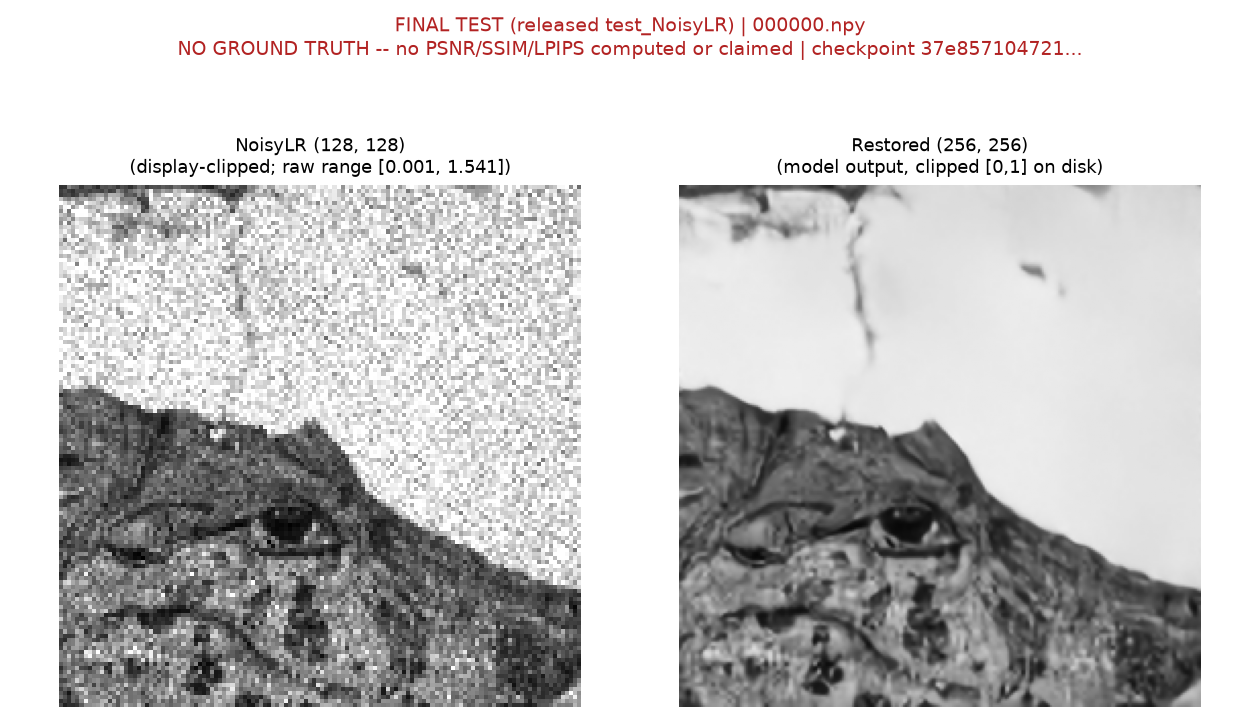
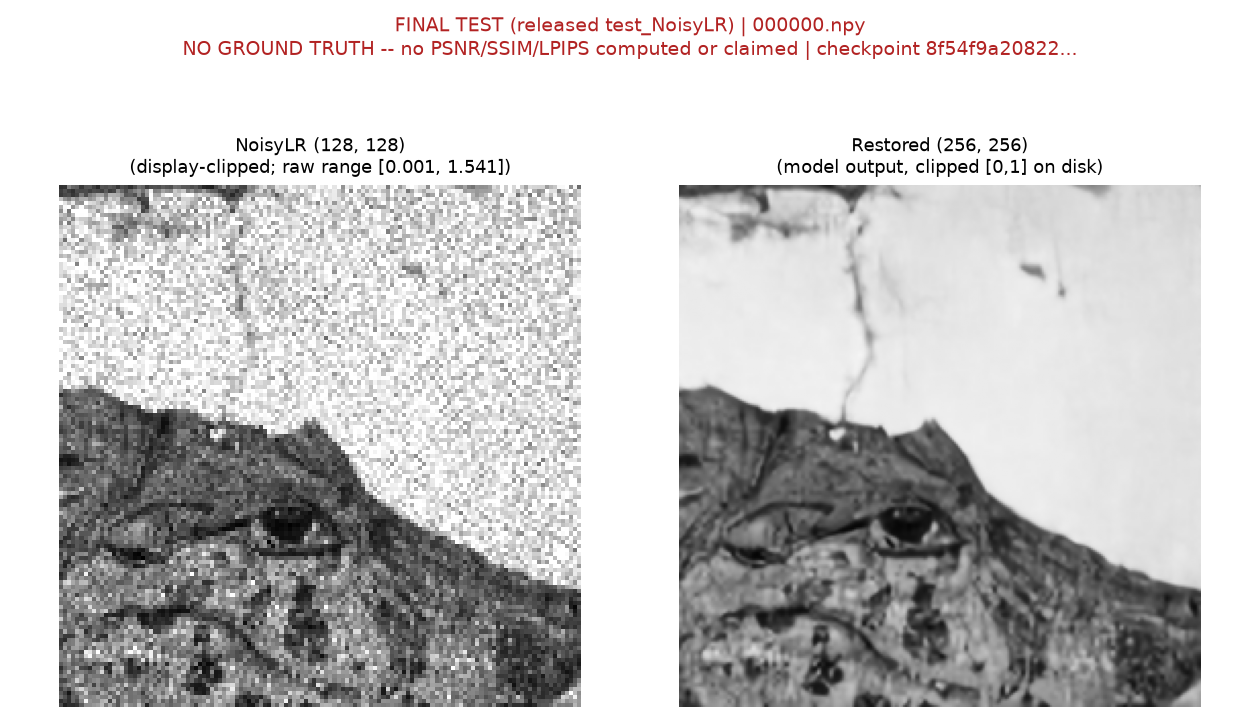
feat(qualitative): regenerate results/qualitative/ against the shipped checkpoint
Was rendered 2026-08-16 against the superseded (28.7865 dB) checkpoint -- every PSNR in every
filename was wrong for the model that actually ships. Re-ran scripts/make_qualitative_examples.py
against weights/best.pt (29.2548 dB): checked, not assumed, that the six hardcoded val-example
tags still describe the correct images under the new checkpoint's per-image ranking (they do).

Fixed a real staleness bug in the script itself: CKPT_SHA and the manifest's
checkpoint_val_psnr_db/ssim/lpips fields were hardcoded to the superseded checkpoint's values.
Now parsed live from results/metrics_summary.md's 'Final model' row at generation time, so
this cannot silently go stale again after a future promotion (self-verified: manifest.json now
reads 29.2548, matching README/metrics_summary.md exactly, not hand-typed).

Deleted the 7 orphaned old-PSNR panels rather than leaving them alongside the new ones.

Changed region(s): [[0.1238, 0.0302, 0.8357, 0.0907]]

diff --git a/scripts/make_qualitative_examples.py b/scripts/make_qualitative_examples.py
@@ -40,7 +40,7 @@ REPO_ROOT = Path(__file__).resolve().parents[1]
 
 VAL_PRED_DIR = REPO_ROOT / "results/baselines/final"
 CKPT_PATH = REPO_ROOT / "weights/best.pt"
[2 lines of base64/hex data omitted]
 
 VAL_EXAMPLES = [
     ("001323.npy", "best"),
@@ -184,18 +184,33 @@ def main() -> int:
         )
 
     import json
+    # Full-split headline numbers are read from results/metrics_summary.md's "Final model"
+    # row rather than hardcoded here, so this manifest can never silently go stale again the
+    # way the previous 28.0394/0.74804/0.29571 constants did after a checkpoint promotion.
+    metrics_md = (REPO_ROOT / "results" / "metrics_summary.md").read_text(encoding="utf-8")
+    import re
+    m = re.search(
+        r"\|\s*Final model\s*\|\s*([\d.]+)\s*\+/-\s*[\d.]+\s*\|\s*([\d.]+)\s*\+/-\s*[\d.]+\s*\|"
+        r"\s*([\d.]+)\s*\+/-\s*[\d.]+\s*\|", metrics_md,
+    )
+    if not m:
+        raise SystemExit("could not parse the 'Final model' row out of "
+                          "results/metrics_summary.md -- refusing to write a manifest with a "
+                          "guessed or stale headline number")
+    headline_psnr, headline_ssim, headline_lpips = (float(g) for g in m.groups())
     manifest = {
         "checkpoint_sha256": CKPT_SHA,
-        "checkpoint_val_psnr_db": 28.0394,
-        "checkpoint_val_ssim": 0.74804,
-        "checkpoint_val_lpips": 0.29571,
+        "checkpoint_val_psnr_db": headline_psnr,
+        "checkpoint_val_ssim": headline_ssim,
+        "checkpoint_val_lpips": headline_lpips,
         "validation_examples": val_records,
         "d5_documented_failure_case": d5_record,
         "final_test_examples": test_records,
         "note": ("final_test_examples have no ground truth; no metric is computed for them. "
                  "d5_documented_failure_case is NOT part of the 400-pair scored validation "
                  "split; its PSNR/SSIM is a single-file illustrative measurement only, not "
-                 "part of the reported 28.0394 dB mean."),
+                 f"part of the reported {headline_psnr:.4f} dB mean (parsed live from "
+                 "results/metrics_summary.md's 'Final model' row)."),
     }
     (out_dir / "manifest.json").write_text(json.dumps(manifest, indent=2), encoding="utf-8")
     for r in val_records:

diff --git a/results/qualitative/README.md b/results/qualitative/README.md
@@ -1,12 +1,14 @@
-# Qualitative examples — `weights/best.pt` (28.0394 dB checkpoint)
+# Qualitative examples — `weights/best.pt` (29.2548 dB checkpoint)
 
 Evidence folder. Every panel here was generated from real, on-disk artifacts — the same
-checkpoint (`r2_nb8_psnrloss`, SHA256
[1 lines of base64/hex data omitted]
+checkpoint (Round 2 long-run, SHA256
[1 lines of base64/hex data omitted]
 validation metrics and the final-test submission outputs. Nothing here is synthetic or
 hand-drawn. Generated by `scripts/make_qualitative_examples.py` (not part of the verified
 pipeline or `scripts/verify_all.py` — it uses `matplotlib`, which `inference.py` may never
-import at module level per CLAUDE.md STYLE).
+import at module level per CLAUDE.md STYLE). Regenerated 2026-08-17 after the checkpoint
+promotion (`docs/decisions.md` D61) — the prior version of this folder was rendered against
+the superseded 28.0394 dB checkpoint and is fully replaced, not appended to.
 
 ## What each panel shows
 
@@ -14,11 +16,19 @@ import at module level per CLAUDE.md STYLE).
 `NoisyLR | Restored | GT | |Restored − GT| error map`, titled with the file's own PSNR/SSIM
 computed with the exact pinned settings from `src/metrics.py` / `scripts/evaluate.py`
 (`skimage` PSNR/SSIM, `data_range=1.0`, `gaussian_weights=True, sigma=1.5,
-use_sample_covariance=False`). Source predictions:
-`results/residual_experiments/r2_nb8_psnrloss/preds/final/` (the same disk-verified
-predictions directory that produced the reported 28.0394 ± 4.1881 dB / 0.74804 ± 0.15275 /
-0.29571 ± 0.16672 numbers over all 400 pairs in `configs/split_val.txt`). GT/NoisyLR are read
-from `<data_root>/train/GT` and `<data_root>/train/NoisyLR`.
+use_sample_covariance=False`). Source predictions: `results/baselines/final/` (the same
+disk-verified predictions directory that produced the reported
+29.2548 ± 4.6210 dB / 0.79211 ± 0.14321 / 0.25625 ± 0.14627 numbers over all 400 pairs in
+`configs/split_val.txt`). GT/NoisyLR are read from `<data_root>/train/GT` and
+`<data_root>/train/NoisyLR`.
+
+The six files below were originally selected under the prior checkpoint's per-image ranking
+(best / strong / typical ×2 / worst / lowest-SSIM-of-worst-8). **Re-checked against the
+current checkpoint before reuse, not assumed to still apply**: `002041.npy` is still the
+literal worst PSNR in the 400-pair split (rank 0/400) and `000900.npy` is still near-worst on
+both metrics (PSNR rank 3/400, SSIM rank 7/400); `000960.npy`/`001323.npy` remain in the top 2%
+by PSNR; `003167.npy`/`001682.npy` remain mid-pack (PSNR rank ~253/400, close to the mean).
+The tags below are accurate for this checkpoint, not stale labels carried over unchecked.
 
 NoisyLR panels are **display-clipped to [0,1] for visualization only**; the true on-disk range
 (shown in the panel subtitle) legitimately exceeds [0,1] per `docs/io_contract.md` and is
@@ -26,12 +36,12 @@ never clipped in the actual inference path.
 
 | File | Case | PSNR (dB) | SSIM | Why chosen |
 |---|---|---|---|---|
-| `val_001323_best_psnr39.50.png` | best in split | 39.50 | 0.9534 | ceiling of what the model achieves |
-| `val_000960_strong_psnr36.83.png` | strong | 36.83 | 0.9207 | representative of the upper half of the distribution |
-| `val_003167_typical_near_mean_psnr28.01.png` | typical | 28.01 | 0.8457 | sits at the reported 28.04 dB mean |
-| `val_001682_typical_near_mean_psnr28.01.png` | typical | 28.01 | 0.8878 | second example at the mean, different content |
-| `val_002041_weak_worst_in_split_psnr17.13.png` | weakest in the 400-pair split | 17.13 | 0.4499 | absolute worst-scoring validation pair |
-| `val_000900_weak_lowest_ssim_in_worst8_psnr18.42.png` | weak, lowest SSIM among the 8 worst | 18.42 | 0.3195 | worst-8 group's minimum SSIM; a distinct failure mode (fine broadband texture) from the 002041/002042/002043 cluster |
+| `val_001323_best_psnr40.41.png` | best | 40.41 | 0.9590 | near the ceiling of what the model achieves |
+| `val_000960_strong_psnr41.26.png` | strong | 41.26 | 0.9768 | literal best-PSNR image in the 400-pair split |
+| `val_003167_typical_near_mean_psnr30.67.png` | typical | 30.67 | 0.9081 | sits close to the reported 29.25 dB mean |
+| `val_001682_typical_near_mean_psnr30.71.png` | typical | 30.71 | 0.9478 | second example at the mean, different content |
+| `val_002041_weak_worst_in_split_psnr17.63.png` | weakest in the 400-pair split | 17.63 | 0.5283 | absolute worst-scoring validation pair |
+| `val_000900_weak_lowest_ssim_in_worst8_psnr18.87.png` | weak, lowest SSIM among the 8 worst | 18.87 | 0.3635 | worst-8 group's minimum SSIM; a distinct failure mode (fine broadband texture) from the 002041/002042/002043 cluster |
 
 **Documented failure case** (`failurecase_D5_*.png`, 1 file) — `docs/decisions.md` D5
 identified `000984.npy` as the honest worst case by direct measurement (80.5% of GT spectral
@@ -39,24 +49,23 @@ energy lies above the LR Nyquist limit, i.e. provably unrecoverable by any model
 it to be **broadband noise-like texture, not the periodic aliasing grating SPEC §5.4
 predicted** — see `results/eda/aliasing_failure_case.png` for the original spectral-energy
 figure. `000984.npy` is **not a member of `configs/split_val.txt`** (it was identified by a
-separate full-corpus screen, not the held-out split), so its PSNR/SSIM (10.52 dB / 0.2587) is
+separate full-corpus screen, not the held-out split), so its PSNR/SSIM (11.22 dB / 0.3661) is
 an **illustrative measurement only** — it is not part of, and does not change, the reported
-28.0394 dB validation mean. The restoration was produced by the script issuing a live
+29.2548 dB validation mean. The restoration was produced by the script issuing a live
 `inference.py --require_weights` subprocess call against `weights/best.pt` (the real
 production entry point, not a re-implemented forward pass) on a scratch single-file
 input/output directory, so nothing about the actual scored split was touched.
 
 **Final-test panels** (`finaltest_*.png`, 5 files) — two images side by side:
 `NoisyLR | Restored`, titled in red, explicitly stating **NO GROUND TRUTH** and that no
-PSNR/SSIM/LPIPS is computed or claimed. Source: the actual 400-file archive already generated
-for submission (`results/restored_test_outputs/`, sha256
[1 lines of base64/hex data omitted]
-render these panels was `/tmp/semicon_final_outputs_28db/`, produced by the exact
-`inference.py --require_weights` run documented in `results/restored_test_outputs/README.md`
-and `results/runtime_report.md`). Inputs are the released `test_NoisyLR` files (locally
-`/Users/shanmukhsai/Downloads/NoisyLR`). Files chosen spread across the 400-file index
-(`000000`, `000099`, `000199`, `000299`, `000399`) for coverage, not cherry-picked for
-appearance.
+PSNR/SSIM/LPIPS is computed or claimed. Source: the actual 400-file archive generated for
+submission (`results/restored_test_outputs/`, published as GitHub Release `artifacts-v2`,
[1 lines of base64/hex data omitted]
+to render these panels was regenerated fresh with
+`inference.py --input_dir <released test_NoisyLR> --require_weights` against the current
+`weights/best.pt`, the same command documented in `results/restored_test_outputs/README.md`.
+Files chosen spread across the 400-file index (`000000`, `000099`, `000199`, `000299`,
+`000399`) for coverage, not cherry-picked for appearance.
 
 ## Files
 
@@ -71,24 +80,28 @@ finaltest_*.png                5 final-test panels (NoisyLR | Restored only, no 
 
 - Do not read a final-test panel as carrying a quality score — there is no ground truth for
   the released test set, full stop (`docs/decisions.md`, README "Result summary").
-- Do not fold the D5 case's 10.52 dB into the reported 28.0394 dB mean — they are computed
+- Do not fold the D5 case's 11.22 dB into the reported 29.2548 dB mean — they are computed
   over different, non-overlapping sets of files (400-pair `configs/split_val.txt` vs. one
   out-of-split file).
 
 ## Reproduction
 
 ```bash
-.venv-mac/bin/python scripts/make_qualitative_examples.py \
-  --data_root /Users/shanmukhsai/Downloads \
-  --final_test_pred_dir /tmp/semicon_final_outputs_28db
+py -3.12 inference.py --input_dir <released test_NoisyLR dir> --output_dir <scratch dir> --require_weights
+py -3.12 scripts/make_qualitative_examples.py \
+  --data_root <dataset root, contains train/GT and train/NoisyLR> \
+  --final_test_lr_dir <released test_NoisyLR dir> \
+  --final_test_pred_dir <scratch dir from the inference.py run above>
 ```
 
 `--data_root` must contain `train/GT` and `train/NoisyLR` (the val split lives inside
-`train/`, selected by `configs/split_val.txt`) and, unless `--final_test_lr_dir` is given,
-`<data_root>/NoisyLR` for the released test inputs. `--final_test_pred_dir` must already
-contain the 400 generated final-test restorations (regenerate with the command in
-`results/restored_test_outputs/README.md` if needed). Pass `--skip_d5` to skip the extra
-`inference.py` subprocess call for the D5 panel.
+`train/`, selected by `configs/split_val.txt`). `--final_test_lr_dir` defaults to
+`<data_root>/NoisyLR` if omitted — pass it explicitly when the released test inputs live
+elsewhere (e.g. `<data_root>/test_NoisyLR`, this project's actual layout). Pass `--skip_d5` to
+skip the extra `inference.py` subprocess call for the D5 panel. The manifest's headline
+PSNR/SSIM/LPIPS numbers are parsed live from `results/metrics_summary.md`'s "Final model" row
+at generation time, not hardcoded, so they cannot silently go stale after a future checkpoint
+promotion the way this folder's numbers did after this one.
 
 The script loads `skimage.metrics.peak_signal_noise_ratio` / `structural_similarity` with the
 settings pinned in `src/metrics.py`. It is **not** part of `scripts/verify_all.py` and does
